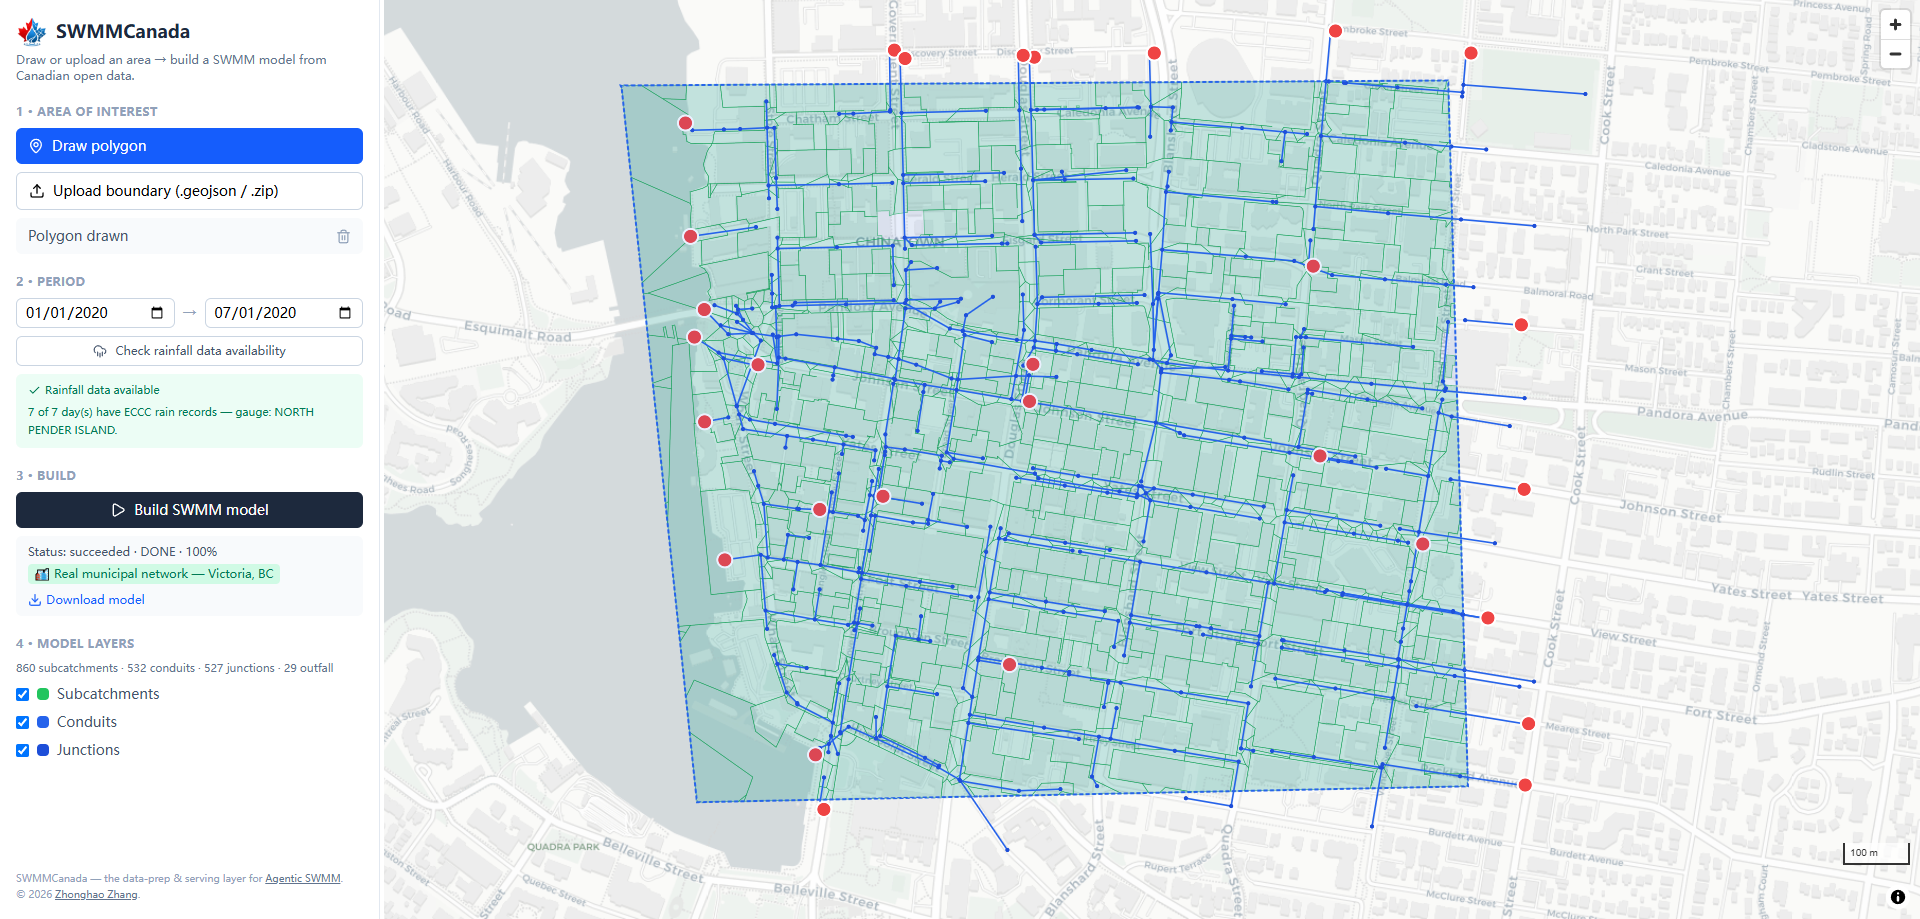
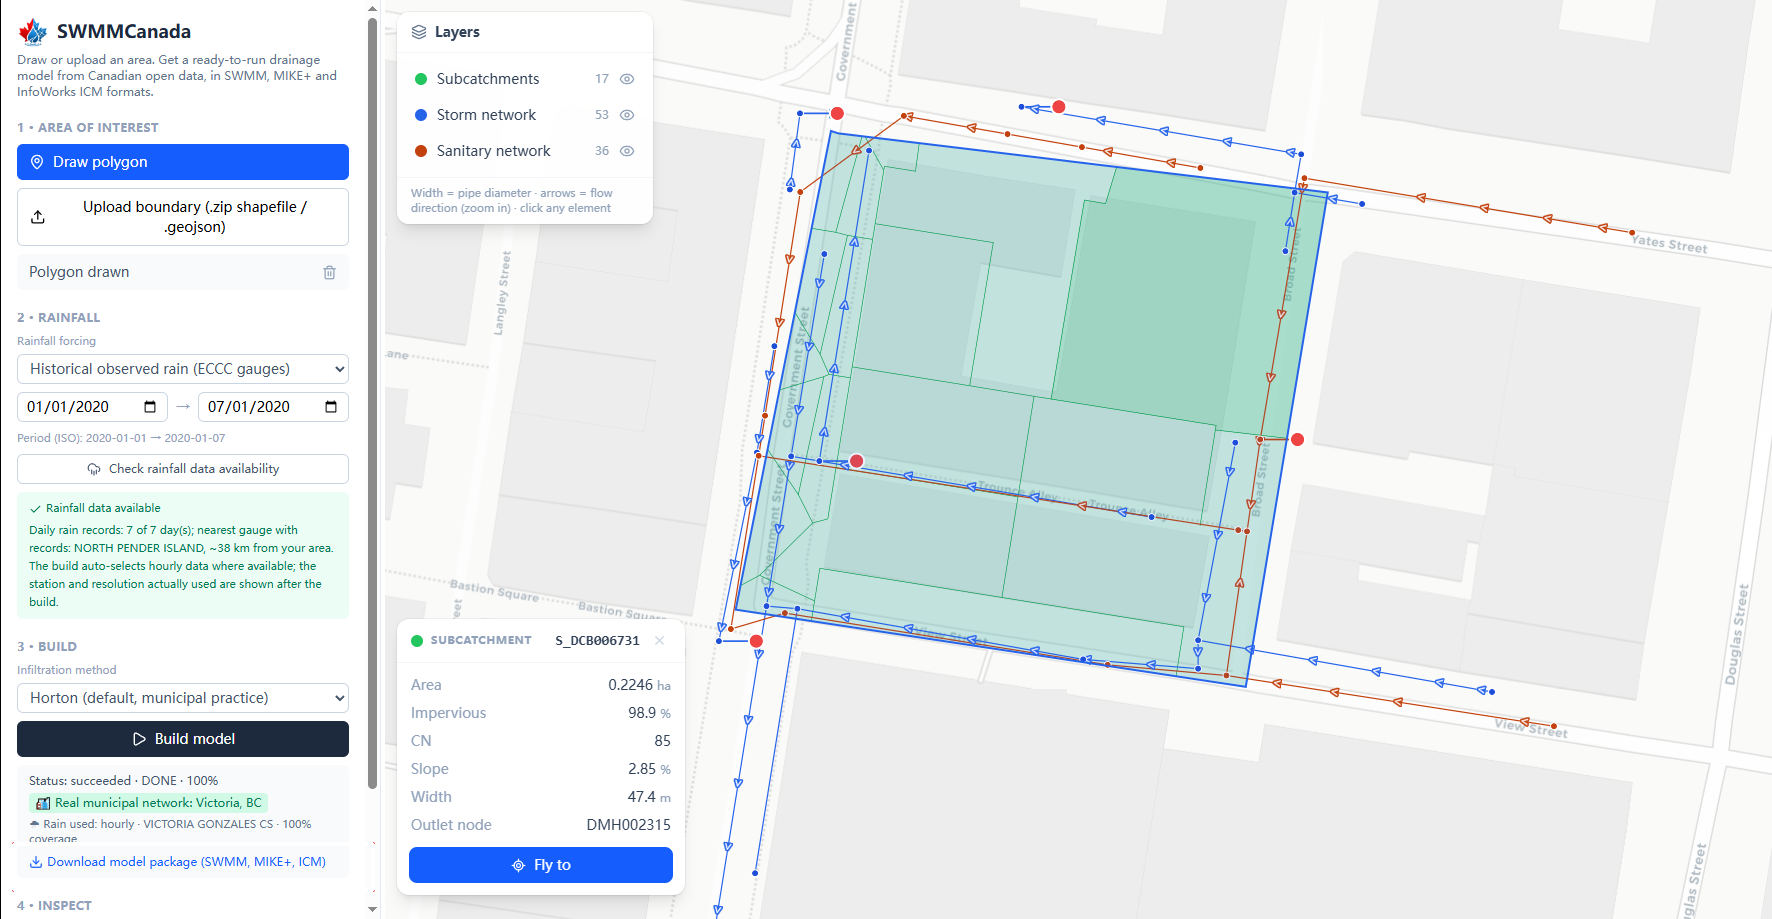
docs(readme): refresh the app showcase to the new map UI
Victoria downtown with the current interface: storm/sanitary colour split,
flow arrows, diameter-scaled pipes, floating Layers card and click-to-inspect
info card; caption and alt text updated to match (annotation box scrubbed
from the source screenshot).

diff --git a/README.md b/README.md
@@ -27,9 +27,9 @@ You draw (or upload) a boundary on the map. SWMMCanada pulls the Canadian open d
 > The demo runs on a small server (**~2 GB RAM**), so it works best for **small areas**; large regions can run out of memory and fail. For large-scale modeling, self-host the frontend **and** backend on a bigger machine or an **HPC** cluster. Both run well as shipped in this repo (see **[DEPLOY.md](DEPLOY.md)**).
 
 <p align="center">
-  <img src="results/victoria_app.png" width="820" alt="The SWMMCanada web app after building downtown Victoria: real storm network and parcel-shaped subcatchments on the map, with the build mode and model layers in the side panel" />
+  <img src="results/victoria_app.png" width="820" alt="The SWMMCanada web app after building downtown Victoria: storm (blue) and sanitary (brick) networks with flow arrows and diameter-scaled pipes, floating layer toggles, and a click-to-inspect card showing subcatchment attributes" />
 </p>
-<p align="center"><sub>The app after building a downtown Victoria area: real storm network (blue), outfalls (red), and parcel-shaped subcatchments (green), with the model ready to download.</sub></p>
+<p align="center"><sub>The app after building a downtown Victoria area: storm (blue) and sanitary (brick) networks with flow arrows, pipe width scaled by diameter, per-system layer toggles, and click-to-inspect attributes, with the model package (SWMM, MIKE+, ICM) ready to download.</sub></p>
 
 ## Two modes (picked automatically)
 